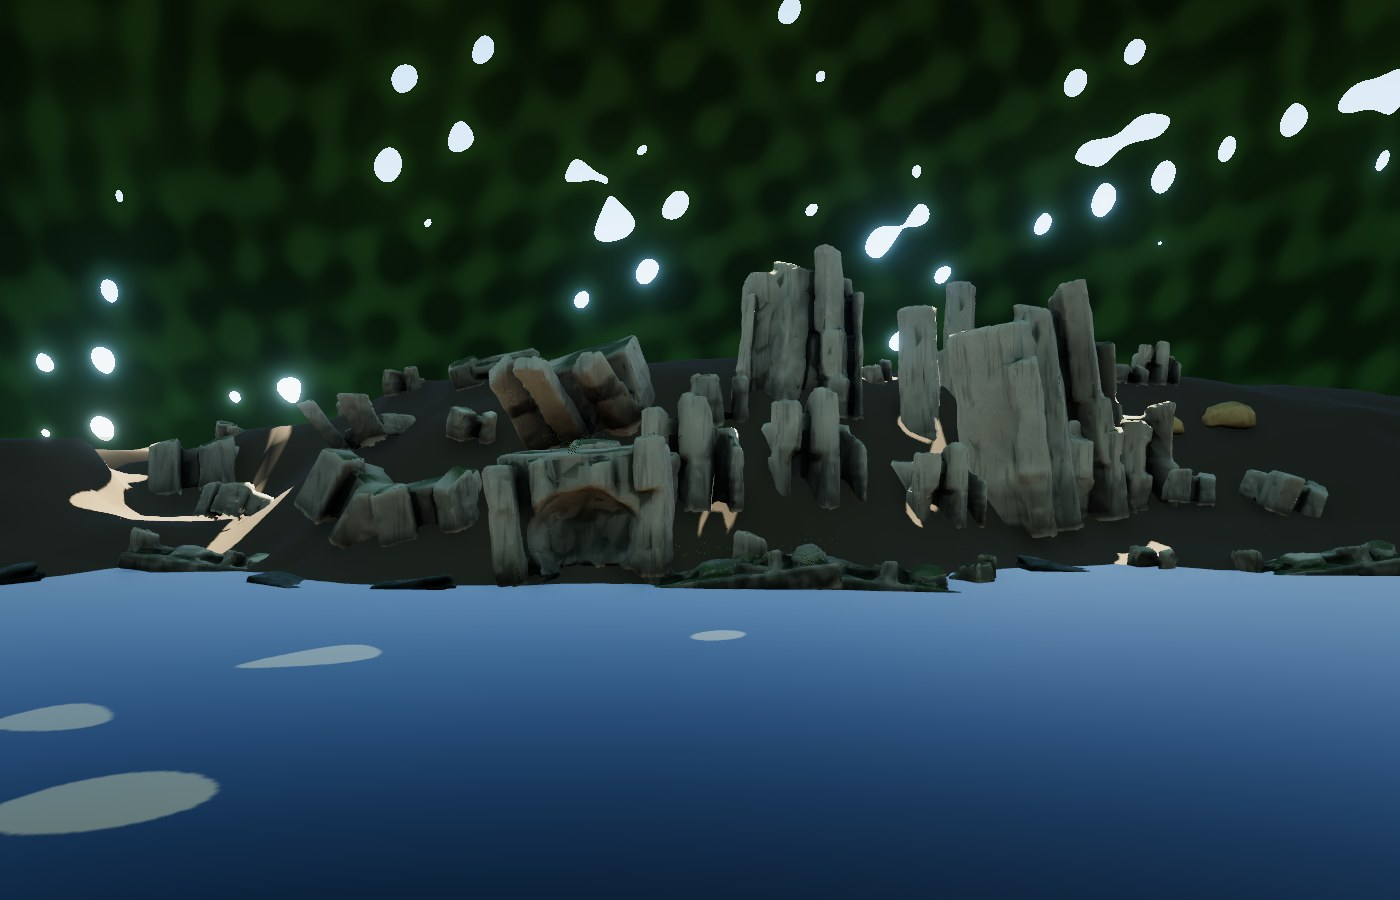
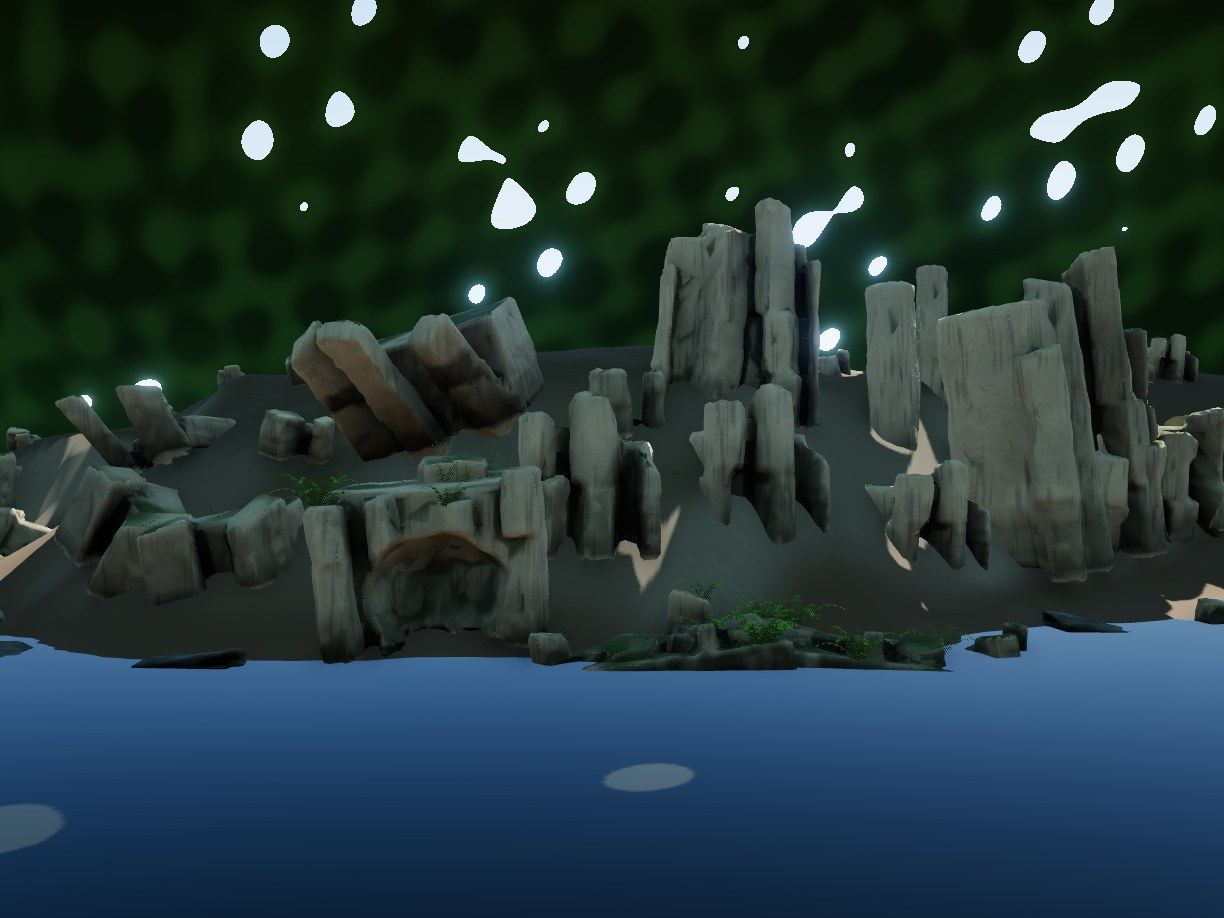
Sauvagere round 3: CC0 detail normal (Poly Haven rock_surface, option a) on the rock kit, rock-skin mound ground, canopy dome, scale / density parameters, comparison images; credits

diff --git a/labs/park-kit-lab.js b/labs/park-kit-lab.js
@@ -50,9 +50,21 @@ const loadMs = performance.now() - t0;
 const fields = { rock: new KitField(rocks, { shadowProxy: qp.get("proxy") !== "0" }), play: new KitField(play) };
 // round 3: the measured mound (DTM) + plants
 const site = await loadSauvagereSite();
-const terrain = siteTerrain(site, new THREE.MeshStandardNodeMaterial({ color: 0x6a4e36, roughness: 1 }));
+// the mound's ground: soil on the gentle parts, a ROCK SKIN on the steep face (between the pieces it reads as rockwork,
+// not soil: cheap coverage), moss on the gentle top
+const terrainMat = new THREE.MeshStandardNodeMaterial({ roughness: 0.95 });
+{
+  const { texture: tx, normalWorld: nW, positionWorld: pW, mix: mx, smoothstep: ss, vec3: v3, float: fl } = await import("three/tsl");
+  const nt = rocks.aoTex;   // (placeholder to keep the import list short)
+  const noise = new THREE.TextureLoader().load("../models/parkkit/detail_rock_surface_nor_1k.jpg"); noise.wrapS = noise.wrapT = THREE.RepeatWrapping;
+  const n = tx(noise, pW.xz.mul(0.35)).g;
+  const steep = ss(0.86, 0.6, nW.y);
+  const soil = v3(0.085, 0.06, 0.04), rockc = v3(0.15, 0.135, 0.115).mul(fl(0.7).add(n.mul(0.6))), moss = v3(0.035, 0.05, 0.018);   // (linear)
+  terrainMat.colorNode = mx(mx(soil, moss, ss(0.4, 0.7, n).mul(ss(1.0, 3.0, pW.y))), rockc, steep);
+}
+const terrain = siteTerrain(site, terrainMat);
 terrain.visible = false; scene.add(terrain);
-const plants = new PlantField({ near: 15, far: 21 });
+const plants = new PlantField({ near: 12, far: 17 });
 scene.add(plants.group);
 lighting.sun?.shadow?.camera?.layers.enable(SHADOW_LAYER);
 for (const f of Object.values(fields)) scene.add(f.group);
@@ -74,7 +86,7 @@ function build(sc) {
   if (sc === "sample cliff (40 pieces)") sampleCliff(fields.rock, { n: 40 });
   if (sc === "Sauvagère cliff (o01)" || sc === "cliff + playground") sampleSauvagereCliff(fields.rock);
   plants.set("fern", []); plants.set("grass", []); plants.set("ivy", []); plants.commit();
-  if (sc === "Sauvagère mound (DTM, o01)") placeSauvagereCliff(fields.rock, site, plants);
+  if (sc === "Sauvagère mound (DTM, o01)") placeSauvagereCliff(fields.rock, site, plants, { scaleMul: S.mscale, density: S.mdensity });
   water.visible = sc.startsWith("Sauvagère");
   terrain.visible = sc.startsWith("Sauvagère mound");
   if (sc === "playground gallery") gallery(fields.play, play, new THREE.Vector3(80, 0, 0));
@@ -82,7 +94,7 @@ function build(sc) {
   for (const f of Object.values(fields)) f.commit();
   S.instances = `${fields.rock.instances} rock + ${fields.play.instances} playground instances`;
 }
-const S = { canopy: qp.get("canopy") !== "0", scene: qp.get("scene") && SCENES.includes(qp.get("scene")) ? qp.get("scene") : SCENES[0], lod: "auto", rangeScale: 1, wire: false, post: true,
+const S = { mscale: +(qp.get("mscale") ?? 0.9), mdensity: +(qp.get("mdensity") ?? 1), canopy: qp.get("canopy") !== "0", scene: qp.get("scene") && SCENES.includes(qp.get("scene")) ? qp.get("scene") : SCENES[0], lod: "auto", rangeScale: 1, wire: false, post: true,
   time: preset, surface: "surface_rubber", instances: "", stats: "", bench: "(not run)", lodInfo: "" };
 build(S.scene);
 
@@ -192,7 +204,7 @@ const canopyLook = () => {
 };
 const fm = ui.addFolder("Look");
 fm.add(S, "canopy").name("canopy shade (o01)").onChange((v) => { canopy.visible = v; if (!v) { lighting.apply(S.time); scene.environmentIntensity = 1; } });
-fm.add(kitLook.bump, "value", 0, 2, 0.05).name("rough concrete bump");
+fm.add(kitLook.bump, "value", 0, 2, 0.05).name("rough concrete detail");
 fm.add(S, "time", Object.keys(PRESETS)).name("time").onChange((v) => { lighting.apply(v); pipe?.look(v); });
 fm.add(S, "post").name("post chain");
 fm.add(kitLook.ao, "value", 0, 1, 0.05).name("AO strength");
@@ -204,6 +216,34 @@ const fb = ui.addFolder("GPU");
 fb.add({ go: () => bench() }, "go").name("benchmark this view (kit vs none)");
 fb.add(S, "bench").name("result").listen();
 fb.add(S, "stats").name("now").listen();
+
+// ------------------------------------------------------------------------------------------------ option (b) test: a CC0 scanned cliff
+// (Poly Haven "namaqualand_cliff_02", CC0, 364k tris, 20 x 6.6 x 7.2 m; models/parkkit/cc0_test/, git-ignored): simplified HERE
+// with meshoptimizer for the test only (a real use would pack it at build time like the kits), grey-toned with its own
+// normal map and AO, placed on the mound's left part. lab.testScan({ tris, x, z, scale, yaw }) -> { tris, ms }
+let scanMesh = null;
+async function testScan({ tris = 20000, x = 7.5, z = 1.5, y = -0.6, scale = 0.42, yaw = Math.PI, remove = false } = {}) {
+  if (scanMesh) { scene.remove(scanMesh); scanMesh = null; }
+  if (remove) return null;
+  const { GLTFLoader } = await import("three/addons/loaders/GLTFLoader.js");
+  const { MeshoptSimplifier } = await import("meshoptimizer/simplifier");
+  await MeshoptSimplifier.ready;
+  const g = await new GLTFLoader().loadAsync("../models/parkkit/cc0_test/namaqualand_cliff_02_1k.gltf");
+  let src = null; g.scene.traverse((o) => { if (o.isMesh && !src) src = o; });
+  const geo = src.geometry, P = geo.attributes.position.array, I = new Uint32Array(geo.index.array);
+  const [J] = MeshoptSimplifier.simplify(I, new Float32Array(P), 3, Math.min(I.length, tris * 3), 0.05, []);
+  const geo2 = geo.clone(); geo2.setIndex(new THREE.BufferAttribute(new Uint32Array(J), 1));
+  const tl = new THREE.TextureLoader(), base = "../models/parkkit/cc0_test/textures/namaqualand_cliff_02_";
+  const [nrm, arm] = await Promise.all([tl.loadAsync(base + "nor_gl_1k.jpg"), tl.loadAsync(base + "arm_1k.jpg")]);
+  for (const t of [nrm, arm]) { t.flipY = false; t.colorSpace = THREE.NoColorSpace; }
+  const m = new THREE.MeshStandardMaterial({ color: new THREE.Color().setRGB(0.58, 0.555, 0.51, THREE.SRGBColorSpace), normalMap: nrm, aoMap: arm, roughness: 0.9 });
+  scanMesh = new THREE.Mesh(geo2, m);
+  const bb = new THREE.Box3().setFromBufferAttribute(geo.attributes.position);
+  scanMesh.scale.setScalar(scale); scanMesh.rotation.y = yaw; scanMesh.position.set(x, y - bb.min.y * scale, z);
+  scanMesh.castShadow = scanMesh.receiveShadow = true;
+  scene.add(scanMesh);
+  return { tris: J.length / 3, size: bb.getSize(new THREE.Vector3()).multiplyScalar(scale).toArray().map((v) => +v.toFixed(2)) };
+}
 
 // ------------------------------------------------------------------------------------------------ render
 await lighting.attach(camera);
@@ -247,7 +287,7 @@ async function bench(cycles = 5) {
   S.bench = `${(on - off).toFixed(2)} ms (with ${on.toFixed(2)}, without ${off.toFixed(2)})`;
   return { view: S.view, scene: S.scene, on, off, delta: on - off, n: acc.on.length };
 }
-window.lab = { plants, site, terrain, canopy, renderer, scene, camera, controls, fields, rocks, play, goView, dolly, bench, gpu, S, VIEWS, build, warm, showPage, kitLook, loadMs };
+window.lab = { testScan, plants, site, terrain, canopy, renderer, scene, camera, controls, fields, rocks, play, goView, dolly, bench, gpu, S, VIEWS, build, warm, showPage, kitLook, loadMs };
 
 let last = performance.now(), frames = 0, fpsAcc = 0, fpsN = 0, fps = 0;
 renderer.setAnimationLoop(() => {

diff --git a/viewer/parkKit.js b/viewer/parkKit.js
@@ -23,7 +23,7 @@
 // glitter far away).
 import * as THREE from "three/webgpu";
 import {
-  attribute, uv, texture, normalWorld, positionWorld, positionView, normalView, positionLocal, vec2, vec3, float, fract, mix, smoothstep, clamp, abs, dot, sin, floor,
+  attribute, uv, texture, normalWorld, positionWorld, positionView, normalView, cameraViewMatrix, vec4, positionLocal, vec2, vec3, float, fract, mix, smoothstep, clamp, abs, dot, sin, floor,
   fwidth, max, min, length, Fn, select, instancedBufferAttribute, uniform,
 } from "three/tsl";
 import { GLTFLoader } from "three/addons/loaders/GLTFLoader.js";
@@ -32,7 +32,7 @@ import { ditherNoise, SMOOTH } from "./lodFade.js";
 
 export const KITS = ["rockkit", "playgroundkit"];
 /** live look controls (uniforms) */
-export const kitLook = { ao: uniform(1.0), aoDirect: uniform(0.5), moss: uniform(1.0), normal: uniform(1.0), normalY: uniform(-1.0), bump: uniform(1.0) };
+export const kitLook = { ao: uniform(1.0), aoDirect: uniform(0.5), moss: uniform(1.0), normal: uniform(1.0), normalY: uniform(-1.0), bump: uniform(1.0), detailMode: uniform(1) };
 
 // ------------------------------------------------------------------------------------------------ loading
 const cache = new Map();
@@ -120,6 +120,16 @@ function withAO(m, aoTex, vertexAo, slot, nrmTex = null) {
         N.assign(T.mul(k).mul(n.x).add(B.mul(k).mul(n.y)).add(N.mul(n.z)).normalize());
       }
       const q = planar();
+      // (a) CC0 scanned DETAIL (Poly Haven "rock_surface" normal map, 1.6 m tile, planar-projected: no colour used)
+      //     or (b) the procedural noise bump; kitLook.detailMode picks (1 = scan, 0 = noise)
+      if (DETAIL_MODE === "scan") {
+        const an = abs(normalWorld);
+        const top = an.y.greaterThan(max(an.x, an.z));
+        const tW = select(top, vec3(1, 0, 0), select(an.x.greaterThan(an.z), vec3(0, 0, 1), vec3(1, 0, 0)));
+        const bW = select(top, vec3(0, 0, 1), vec3(0, 1, 0));
+        const dn = texture(detailTex(), q.div(1.6)).xy.mul(2).sub(1).mul(kitLook.bump).mul(0.85);
+        return N.add(cameraViewMatrix.mul(vec4(tW.mul(dn.x).add(bW.mul(dn.y)), 0)).xyz).normalize();
+      }
       const hgt = texture(noise, q.div(2.0)).b.mul(0.0035).add(texture(noise, q.div(0.9)).b.mul(0.0025)).mul(kitLook.bump);
       const dpx = positionView.dFdx(), dpy = positionView.dFdy();
       const r1 = dpy.cross(N), r2 = N.cross(dpx), det2 = dot(dpx, r1);
@@ -157,7 +167,16 @@ function withAO(m, aoTex, vertexAo, slot, nrmTex = null) {
 // so far away it averages out by itself (no sparkle) and a pixel costs 1-2 texture reads instead of 3D noise.
 const lin = (r, g, b) => new THREE.Color().setRGB(r, g, b, THREE.SRGBColorSpace);
 const cv = (c) => vec3(c.r, c.g, c.b);
-let NOISE = null;
+let NOISE = null, DETAIL = null;
+/** close-up rock detail: "scan" = the CC0 scanned normal map (default), "noise" = the procedural bump (?detail=noise) */
+const DETAIL_MODE = new URLSearchParams(location.search).get("detail") === "noise" ? "noise" : "scan";
+/** the CC0 scanned rock detail normal map (Poly Haven "rock_surface", CC0; CREDITS.md) */
+function detailTex() {
+  if (DETAIL) return DETAIL;
+  DETAIL = new THREE.TextureLoader().load(new URL("../models/parkkit/detail_rock_surface_nor_1k.jpg", import.meta.url).href);
+  DETAIL.wrapS = DETAIL.wrapT = THREE.RepeatWrapping; DETAIL.colorSpace = THREE.NoColorSpace; DETAIL.anisotropy = 4;
+  return DETAIL;
+}
 function noiseTexture() {
   if (NOISE) return NOISE;
   const S = 256, d = new Uint8Array(S * S * 4);

diff --git a/viewer/sauvagereCliff.js b/viewer/sauvagereCliff.js
@@ -39,7 +39,7 @@ export function siteTerrain(site, material) {
   return m;
 }
 
-export function placeSauvagereCliff(field, site, plants = null, { seed = 7, density = 1 } = {}) {
+export function placeSauvagereCliff(field, site, plants = null, { seed = 7, density = 1, scaleMul = 1 } = {}) {
   let s = seed;
   const rnd = () => ((s = (s * 16807) % 2147483647) / 2147483647);
   const U = (a, b) => a + (b - a) * rnd();
@@ -63,6 +63,7 @@ export function placeSauvagereCliff(field, site, plants = null, { seed = 7, dens
     // the pieces' front is +z: facing downhill means rotating +z onto the downhill vector
     e.set(U(-tilt, tilt), yaw, U(-tilt, tilt), "YXZ"); q.setFromEuler(e);
     pos.set(x + Math.sin(down) * push, y, z + Math.cos(down) * push);
+    scale *= scaleMul;
     sc.set(scale * U(0.9, 1.1), scale * U(0.9, 1.15), scale * U(0.9, 1.1));
     m.compose(pos, q, sc);
     field.add(name, m); placed.push({ name, matrix: m.clone() });
@@ -75,18 +76,18 @@ export function placeSauvagereCliff(field, site, plants = null, { seed = 7, dens
     let zw = -6; while (h(x, zw) < 0.15 && zw < 12) zw += 0.25;
     let zt = zw; while (zt < 14) { const [gx, gz] = grad(x, zt); if (Math.hypot(gx, gz) < 0.25 && h(x, zt) > 2.5) break; zt += 0.25; }
     const top = h(x, zt);
-    const w = right ? U(1.7, 2.6) : U(2.0, 3.0);
+    const w = right ? U(2.0, 2.9) : U(2.3, 3.3);
     // 1) the water line: ledges, the grotto (left of centre, o01), dark slabs
     if (Math.abs(x - 3.5) < 1.6 && !placed.some((p) => p.name === "rk2_grotto")) put("rk2_grotto", x, zw + 0.6, { scale: 1.05, sink: 0.15, tilt: T(4), yawJitter: 0.15 });
     else put(pick(["rk2_foot", "rk2_foot", "nat_slab", "rk3_block_s"]), x + U(-0.4, 0.4), zw - U(0.2, 0.6), { scale: U(0.8, 1.15), sink: 0.25, tilt: T(10) });
     // 2) up the face, rows every ~1.2-1.8 m of height
-    for (let y = U(0.9, 1.4); y < top - 0.6; y += U(1.3, 1.9)) {
+    for (let y = U(1.0, 1.5); y < top - 0.6; y += U(1.6, 2.2)) {
       let z = zw; while (h(x, z) < y && z < zt) z += 0.2;
       const xx = x + U(-0.6, 0.6);
       if (Math.hypot(xx - ex[0], z - ex[1]) < exR && y > top - 1.2) continue;
       if (right) put(pick(["rk2_pillars_tall", "rk2_pillars_low", "rk2_pillar", "rk3_broken", "rk2_pillars_low"]), xx, z + 0.8, { scale: U(0.95, 1.3), sink: 0.6 + y * 0.15, tilt: T(6), push: rnd() < 0.3 ? U(0.2, 0.5) : 0, yawJitter: 0.25 });
       else if (farRight) put(pick(["rk3_block_s", "rk3_block", "nat_boulder"]), xx, z, { scale: U(0.7, 1.1), sink: 0.35, tilt: T(20) });
-      else put(pick(["rk3_block", "rk3_wedge", "rk2_slabs", "rk3_block_s", "rk3_broken", "rk3_block"]), xx, z + 0.4, { scale: U(1.0, 1.6), sink: 0.45, tilt: T(25), push: rnd() < 0.35 ? U(0.25, 0.6) : 0 });
+      else put(pick(["rk3_block", "rk3_wedge", "rk2_slabs", "rk3_block_s", "rk3_broken", "rk3_block"]), xx, z + 0.4, { scale: U(0.95, 1.45), sink: 0.45, tilt: T(25), push: rnd() < 0.35 ? U(0.25, 0.6) : 0 });
     }
     // 3) the upper edge: smaller blocks and broken tops (clear of the exedra)
     const xe = x + U(-0.5, 0.5);

diff --git a/labs/park-kit-lab.html b/labs/park-kit-lab.html
@@ -30,7 +30,8 @@
     "three/webgpu": "https://cdn.jsdelivr.net/npm/three@0.187.0/build/three.webgpu.js",
     "three/tsl": "https://cdn.jsdelivr.net/npm/three@0.187.0/build/three.tsl.js",
     "three/addons/": "https://cdn.jsdelivr.net/npm/three@0.187.0/examples/jsm/",
-    "three/src/": "https://cdn.jsdelivr.net/npm/three@0.187.0/src/"
+    "three/src/": "https://cdn.jsdelivr.net/npm/three@0.187.0/src/",
+    "meshoptimizer/simplifier": "https://cdn.jsdelivr.net/npm/meshoptimizer@1.2.0/meshopt_simplifier.js"
   }
 }
 </script>

diff --git a/CREDITS.md b/CREDITS.md
@@ -43,6 +43,13 @@ the check dates are in `pipeline/sources.json`.
   Its data can lag: the extract used for G4 has `timestamp_osm_base`
   2026-06-01T08:52:28Z, five months before the fetch.
 
+## Textures (CC0)
+
+- `models/parkkit/detail_rock_surface_nor_1k.jpg`: the normal map of **"Rock Surface"** by Poly Haven
+  (https://polyhaven.com/a/rock_surface), **CC0 1.0**. Used as a close-up DETAIL normal (rough concrete) on the park
+  rock kit (viewer/parkKit.js; no colour taken from it). Source files and the tested-but-not-shipped scan
+  ("Namaqualand Cliff 02", Dario Barresi / Rico Cilliers, CC0) are listed in data/raw/cc0/polyhaven/SOURCES.md.
+
 ## Code and libraries
 
 | Component | Licence | Notes |
